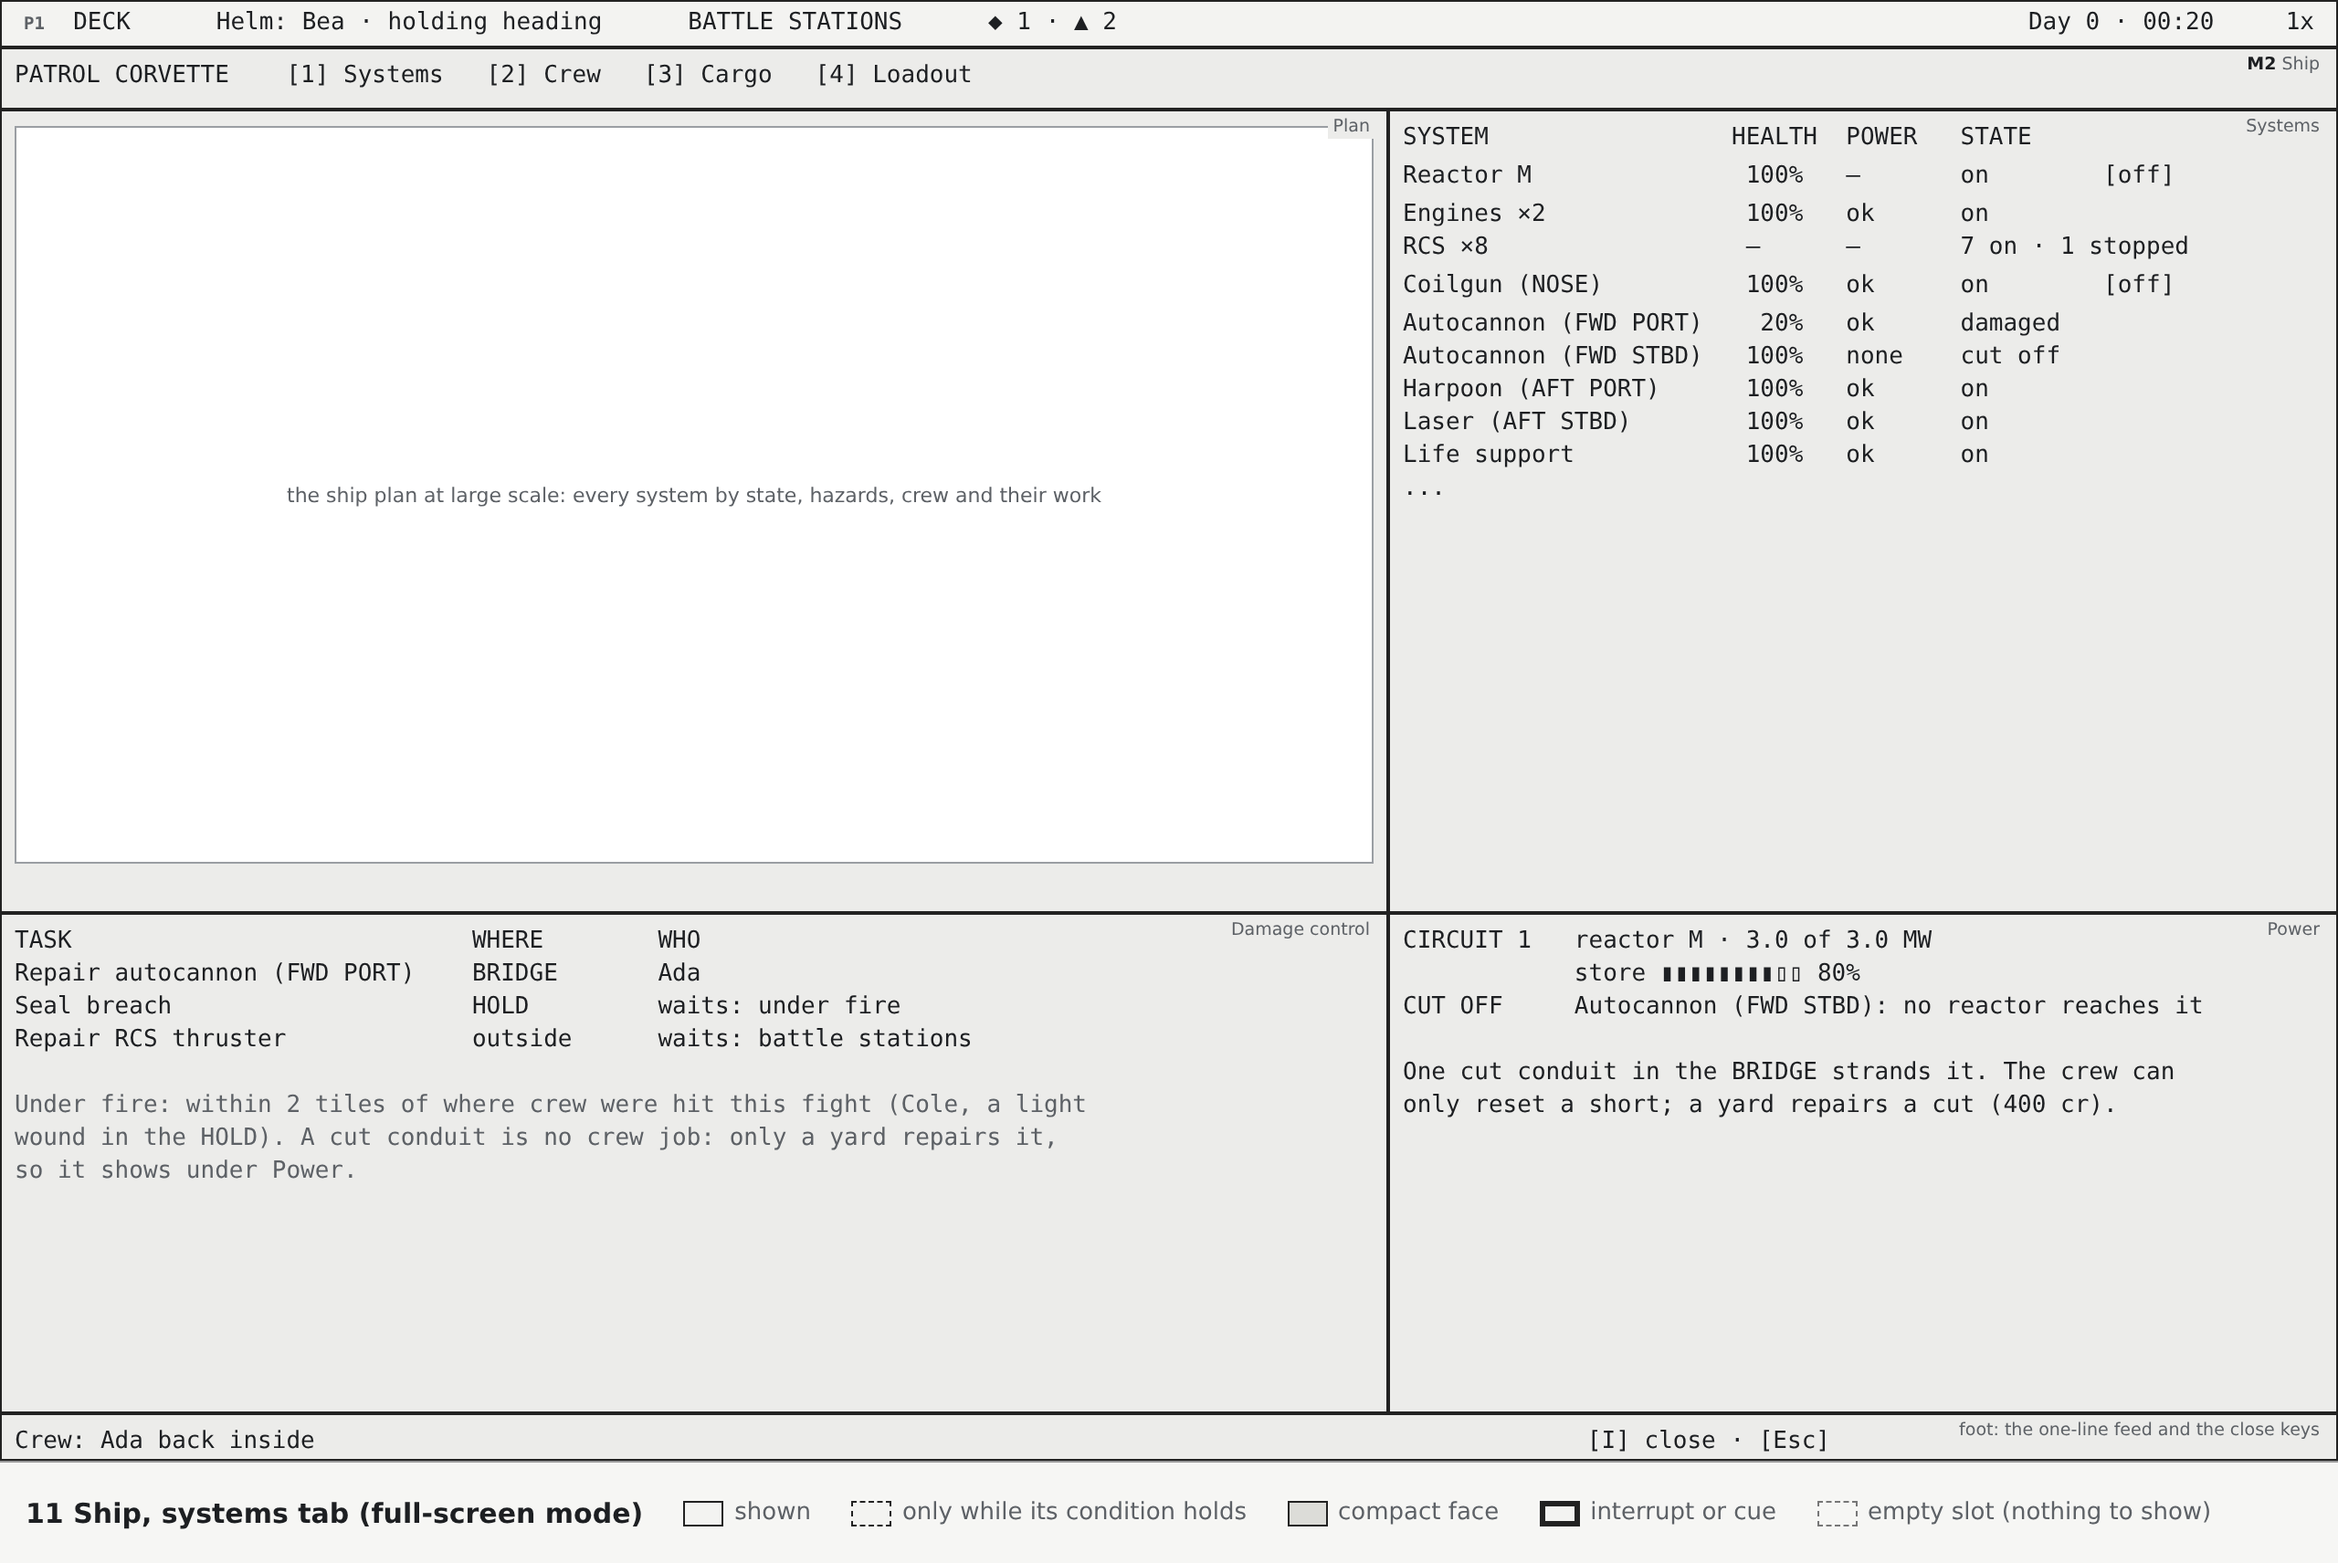
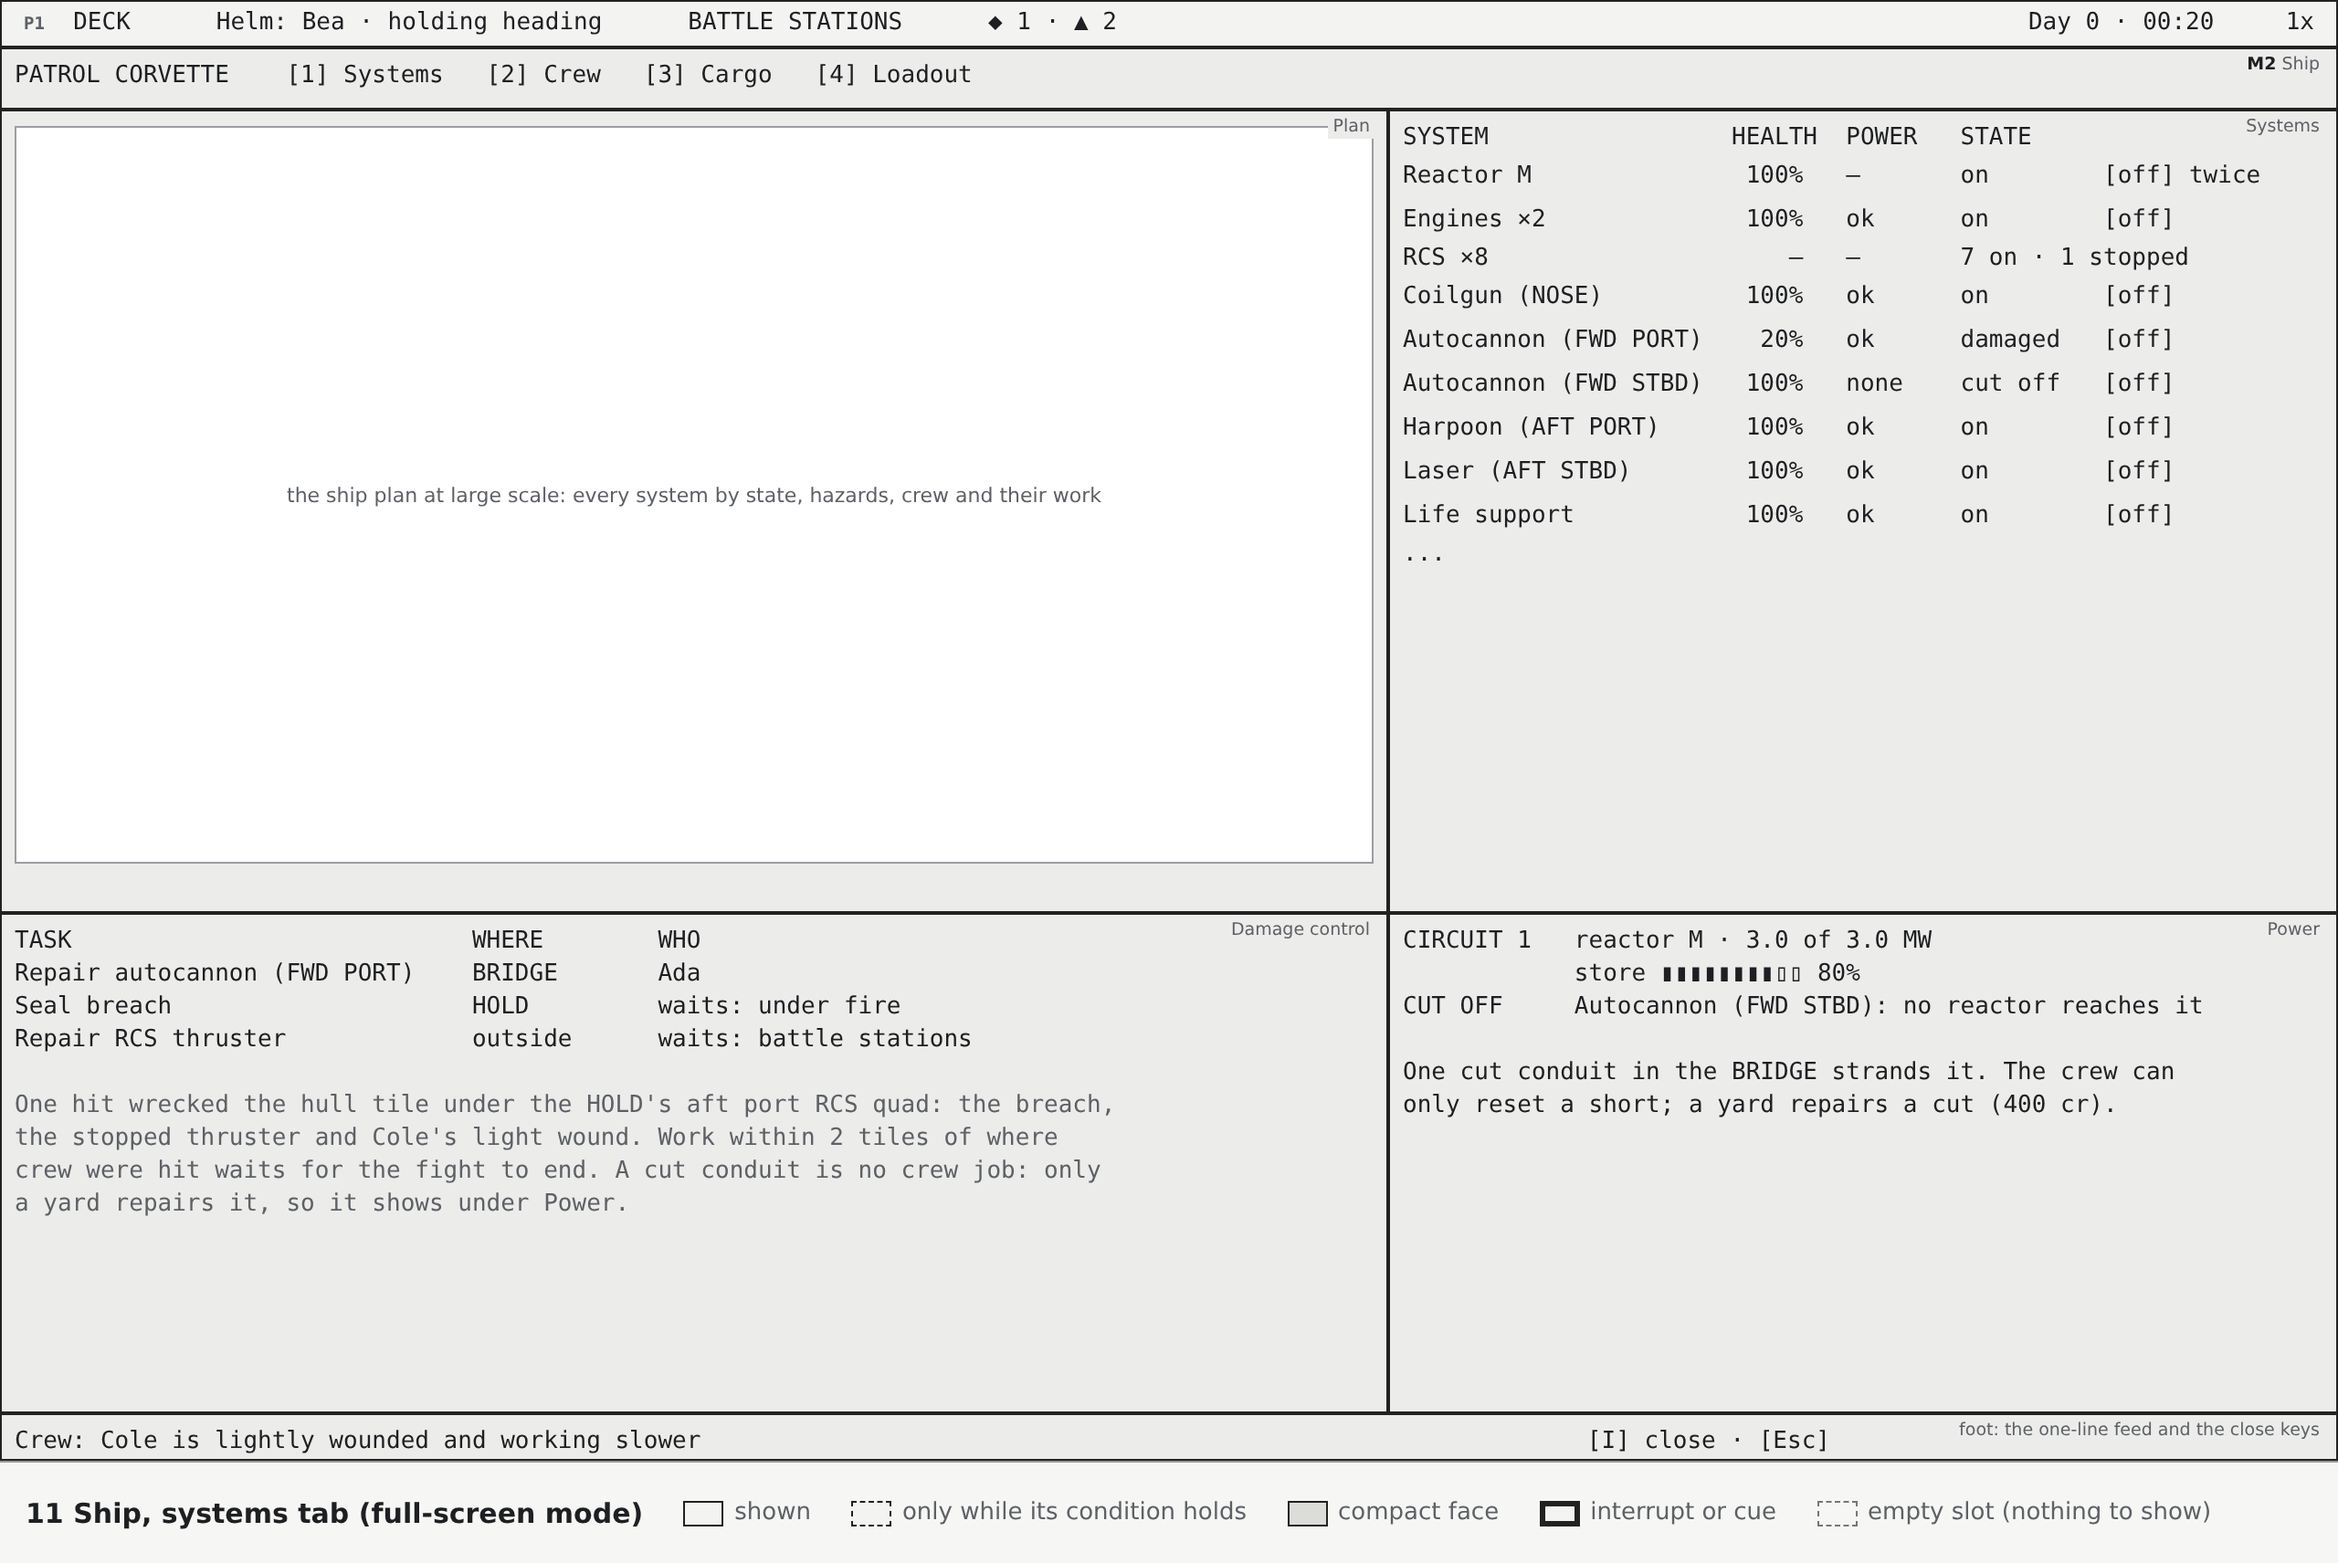
UI overhaul, context design v15: one hit, and a switch on every system
From the VFD direction's M2 Systems check of v14:

- Wireframe 11's stopped RCS block and the HOLD's breach are one hit
  on the same hull tile, the aft port quad's, which also wounded Cole:
  a block stops only while its tile is wrecked (RcsThruster.works),
  and every corvette block stands on hull next to the interior, so a
  stopped block comes with a breach or a sealed one.
- The systems list gives every system its switch, as the game does
  (SubsystemComponent.switchedOn): one key on the focused row, a
  group's row switches the group, the reactor's is pressed twice.
- Wireframe 11's feed line is the game's wound notice.

Claude-Session: https://claude.ai/code/session_019poqwTMfp6kHAvEvLYB3Cj

diff --git a/documentation/ui-overhaul/wireframes/wireframes.html b/documentation/ui-overhaul/wireframes/wireframes.html
@@ -514,15 +514,15 @@ const layouts = {
     box('', 'Plan', 0, 60, 760, 440, 'mode', [], { h: 404, text: 'the ship plan at large scale: every system by state, hazards, crew and their work' });
     box('', 'Systems', 760, 60, 520, 440, 'mode', [
       'SYSTEM                 HEALTH  POWER   STATE',
-      '^Reactor M               100%   –       on        [off]',
-      'Engines ×2              100%   ok      on',
-      'RCS ×8                  –      –       7 on · 1 stopped',
+      '^Reactor M               100%   –       on        [off] twice',
+      '^Engines ×2              100%   ok      on        [off]',
+      'RCS ×8                     –   –       7 on · 1 stopped',
       '^Coilgun (NOSE)          100%   ok      on        [off]',
-      'Autocannon (FWD PORT)    20%   ok      damaged',
-      'Autocannon (FWD STBD)   100%   none    cut off',
-      'Harpoon (AFT PORT)      100%   ok      on',
-      'Laser (AFT STBD)        100%   ok      on',
-      'Life support            100%   ok      on',
+      '^Autocannon (FWD PORT)    20%   ok      damaged   [off]',
+      '^Autocannon (FWD STBD)   100%   none    cut off   [off]',
+      '^Harpoon (AFT PORT)      100%   ok      on        [off]',
+      '^Laser (AFT STBD)        100%   ok      on        [off]',
+      '^Life support            100%   ok      on        [off]',
       '...']);
     box('', 'Damage control', 0, 500, 760, 274, 'mode', [
       'TASK                            WHERE        WHO',
@@ -530,9 +530,10 @@ const layouts = {
       'Seal breach                     HOLD         waits: under fire',
       'Repair RCS thruster             outside      waits: battle stations',
       '',
-      '~Under fire: within 2 tiles of where crew were hit this fight (Cole, a light',
-      '~wound in the HOLD). A cut conduit is no crew job: only a yard repairs it,',
-      '~so it shows under Power.']);
+      '~One hit wrecked the hull tile under the HOLD\'s aft port RCS quad: the breach,',
+      '~the stopped thruster and Cole\'s light wound. Work within 2 tiles of where',
+      '~crew were hit waits for the fight to end. A cut conduit is no crew job: only',
+      '~a yard repairs it, so it shows under Power.']);
     box('', 'Power', 760, 500, 520, 274, 'mode', [
       'CIRCUIT 1   reactor M · 3.0 of 3.0 MW',
       '            store ▮▮▮▮▮▮▮▮▯▯ 80%',
@@ -541,7 +542,7 @@ const layouts = {
       'One cut conduit in the BRIDGE strands it. The crew can',
       'only reset a short; a yard repairs a cut (400 cr).']);
     box('', 'foot: the one-line feed and the close keys', 0, 774, W, 26, 'mode',
-      ['Crew: Ada back inside' + ' '.repeat(89) + '[I] close · [Esc]']);
+      ['Crew: Cole is lightly wounded and working slower' + ' '.repeat(62) + '[I] close · [Esc]']);
   }],
   '12': ['Orders menu (helm, cruise)', () => {
     strip('HELM', 'Day 0 · 00:33     1x');

diff --git a/documentation/ui-overhaul/functional-context.md b/documentation/ui-overhaul/functional-context.md
@@ -10,7 +10,7 @@ Wireframes are grey boxes at the 1280 x 800 UI-unit layout the HUD already uses 
 [`wireframes/`](wireframes/). Positions and sizes are in UI units. `wireframes/wireframes.html` draws
 them and `node documentation/ui-overhaul/wireframes/render.js` renders them again.
 
-**Version 14.** The design is revised in rounds with the three art directions; the revision log is at
+**Version 15.** The design is revised in rounds with the three art directions; the revision log is at
 the end.
 
 ## Contents
@@ -1380,7 +1380,7 @@ time).
 
 | Tab | Content |
 |---|---|
-| Systems | The ship's plan at large scale, every system coloured by state; a list grouped by type with health, powered, on or off (switch), stunned, circuit, and a dash where the game has no such value (a reactor makes its power rather than drawing it; an RCS block draws none and has no health of its own, working while the hull tile it is bolted to stands, `RcsThruster`); power: each circuit's reactors, output against rating, store, and the systems it can't reach; **damage control board**: every hazard and repair task with who has it, or "unassigned". These are the crew's jobs as the game posts them (`ShipHazardScanSystem`): seal a breach, patch a leak, reset a short, isolate a tank, put out a fire, repair a damaged system, treat or stabilise the wounded, and EVA work on the hull (an RCS block, a hull tile, a jammed collar), which waits at battle stations unless someone is sent out. A job that waits says why, as P2's Held does: "waits: under fire" or "waits: battle stations". A cut conduit is no crew job: only a yard repairs it, so it shows under power, with the yard's price |
+| Systems | The ship's plan at large scale, every system coloured by state; a list grouped by type with health, powered, on or off (switch), stunned, circuit, and a dash where the game has no such value (a reactor makes its power rather than drawing it; an RCS block draws none and has no health of its own, working while the hull tile it is bolted to stands, `RcsThruster`). Every system takes the switch, since the game lets the crew switch any system off (`SubsystemComponent.switchedOn`, today's console window): one key acts on the focused row, a group's row switches the group, and opening the row lists its members, each with its own switch. RCS blocks are not systems and have none. The reactor's switch is guarded, pressed twice, since switching it off darkens the whole ship; power: each circuit's reactors, output against rating, store, and the systems it can't reach; **damage control board**: every hazard and repair task with who has it, or "unassigned". These are the crew's jobs as the game posts them (`ShipHazardScanSystem`): seal a breach, patch a leak, reset a short, isolate a tank, put out a fire, repair a damaged system, treat or stabilise the wounded, and EVA work on the hull (an RCS block, a hull tile, a jammed collar), which waits at battle stations unless someone is sent out. A job that waits says why, as P2's Held does: "waits: under fire" or "waits: battle stations". A cut conduit is no crew job: only a yard repairs it, so it shows under power, with the yard's price |
 | Crew | Today's `CrewWindow` roster (role, skills, condition, morale, wage, history), sortable; EVA orders (send out, call in, let out); suits at battle stations; prisoners and what can be done with them here |
 | Cargo | Hold contents (commodity, units, volume), capacity; salvaged parts aboard |
 | Loadout | Hardpoints and what each carries; field refit (today Y away from a yard); furnishings aboard; ship figures (mass, full Δv, berths) |
@@ -1552,15 +1552,18 @@ salvaged), with the delivery this market can supply under the table: 28 more Foo
 
 ![Ship systems](wireframes/11-ship-systems.png)
 
-Battle stations, the crew doing what the game's crews would. Cole, the marine, took a light wound in
-the HOLD, so the crew keep clear of it until the fight ends and the breach there waits (a marine
-never seals one anyway); Cole mans the weapons console. Ada, the engineer, repairs the FWD PORT
-autocannon, which damage has taken under the 30% where a system stops working; a gun's repair never
-waits. Bea, the crewman, has nothing else to take, so Bea flies. One cut conduit in the BRIDGE
-strands the FWD STBD autocannon: the crew can only reset a short, and a cut waits for a yard, so it
-shows under Power with the yard's price rather than on the board. The RCS repair is outside, so it
-waits for battle stations to end unless someone is sent out. P1's chip counts the breach and the two
-guns out of action (SYSTEM DOWN).
+Battle stations, the crew doing what the game's crews would. One hit wrecked the hull tile under the
+HOLD's aft port RCS quad: the HOLD is breached, the quad stops (a block works only while its tile
+stands, `RcsThruster`), and Cole, the marine, took a light wound there. So the crew keep clear of the
+HOLD until the fight ends and the breach waits (a marine never seals one anyway); Cole mans the
+weapons console. The quad's repair is outside, so it waits for battle stations to end unless someone
+is sent out, and sealing the breach from inside won't start it again: it fires once the repair frames
+its tile back up. Ada, the engineer, repairs the FWD PORT autocannon, which damage has taken under the
+30% where a system stops working; a gun's repair never waits. Bea, the crewman, has nothing else to
+take, so Bea flies. One cut conduit in the BRIDGE strands the FWD STBD autocannon: the crew can only
+reset a short, and a cut waits for a yard, so it shows under Power with the yard's price rather than
+on the board. Every system row has its switch; the reactor's asks twice. P1's chip counts the breach
+and the two guns out of action (SYSTEM DOWN).
 
 ### 11.12 Orders menu
 
@@ -1768,3 +1771,4 @@ largest scale, and the centre stays clear.
 | 12 | 4 (NASA-punk critique) | H5's cruise range is the smallest step that holds every contact inside 50 km, in the shape of the combat rule: at a fixed 50 km, the station the ship has just left sat under the own-ship mark, and leaving a station is the commonest cruise. Automatic ranges step out at once and back in only inside 80% of the smaller ring. Wireframes 01 and 12 show the scope at 5 km |
 | 13 | 4 (NASA-punk critique) | Wireframe 11's RCS row reads a dash for power, as for health: the game's RCS blocks draw no power (`RcsThruster`, `RcsThrust`: a block fires while its hull tile stands and there is propellant), and the systems list dashes any value the game doesn't have |
 | 14 | 4 (VFD critique) | M1 draws a body the plan meets twice, as the game does: where it is now, with the Nav's mark on its station, and as a ghost where it will be at the plan's closest approach, labelled with that time; wireframe 09 shows both, the ghost 54° further along the Moon's orbit. M1's Nav card follows H2's NAV rule, so for a Nav around another body it gives that body and the arrival, not a closest approach. Section 14 lists `OrbitPathProvider`'s ghost time and gives the boarding party's states as X2 has them |
+| 15 | 4 (VFD critique) | Wireframe 11's stopped RCS block and the HOLD's breach are one hit on the same hull tile, the aft port quad's, which also wounded Cole: a block stops only while its tile is wrecked, and every one of the corvette's stands on hull next to the interior, so a stopped block always comes with a breach or a sealed one. The systems list gives every system its switch, as the game does, with a group's row switching the group and the reactor's guarded. Wireframe 11's feed line is the game's wound notice |
